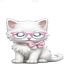
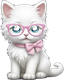
穿搭页：重新抠图(JPEG原图)+保持原始比例不变形+容器48px

diff --git a/detail-fashion.html b/detail-fashion.html
@@ -225,8 +225,8 @@ body {
 .merge-item.fashion { background: linear-gradient(135deg, #E0F0FF 0%, #EBF2F8 100%); }
 .merge-item.outfit { background: linear-gradient(135deg, #EBF2F8 0%, #FAFAFA 100%); border: 1.5px solid var(--mint); }
 .merge-item.makeup { background: linear-gradient(135deg, #FAEBEB 0%, #FFFAFB 100%); border: 1.5px solid var(--pink); }
-.merge-item-icon { font-size: 26px; line-height: 1; display: flex; align-items: center; justify-content: center; width: 44px; height: 44px; }
-.merge-item-icon img { max-width: 100%; max-height: 100%; object-fit: contain; }
+.merge-item-icon { font-size: 26px; line-height: 1; display: flex; align-items: center; justify-content: center; width: 48px; height: 48px; overflow: hidden; }
+.merge-item-icon img { max-width: 100%; max-height: 100%; width: auto; height: auto; object-fit: contain; display: block; }
 .merge-item-name { font-size: 13px; font-weight: 600; color: var(--choco); }
 .merge-item-sub { font-size: 9px; color: var(--choco-hint); }
 
